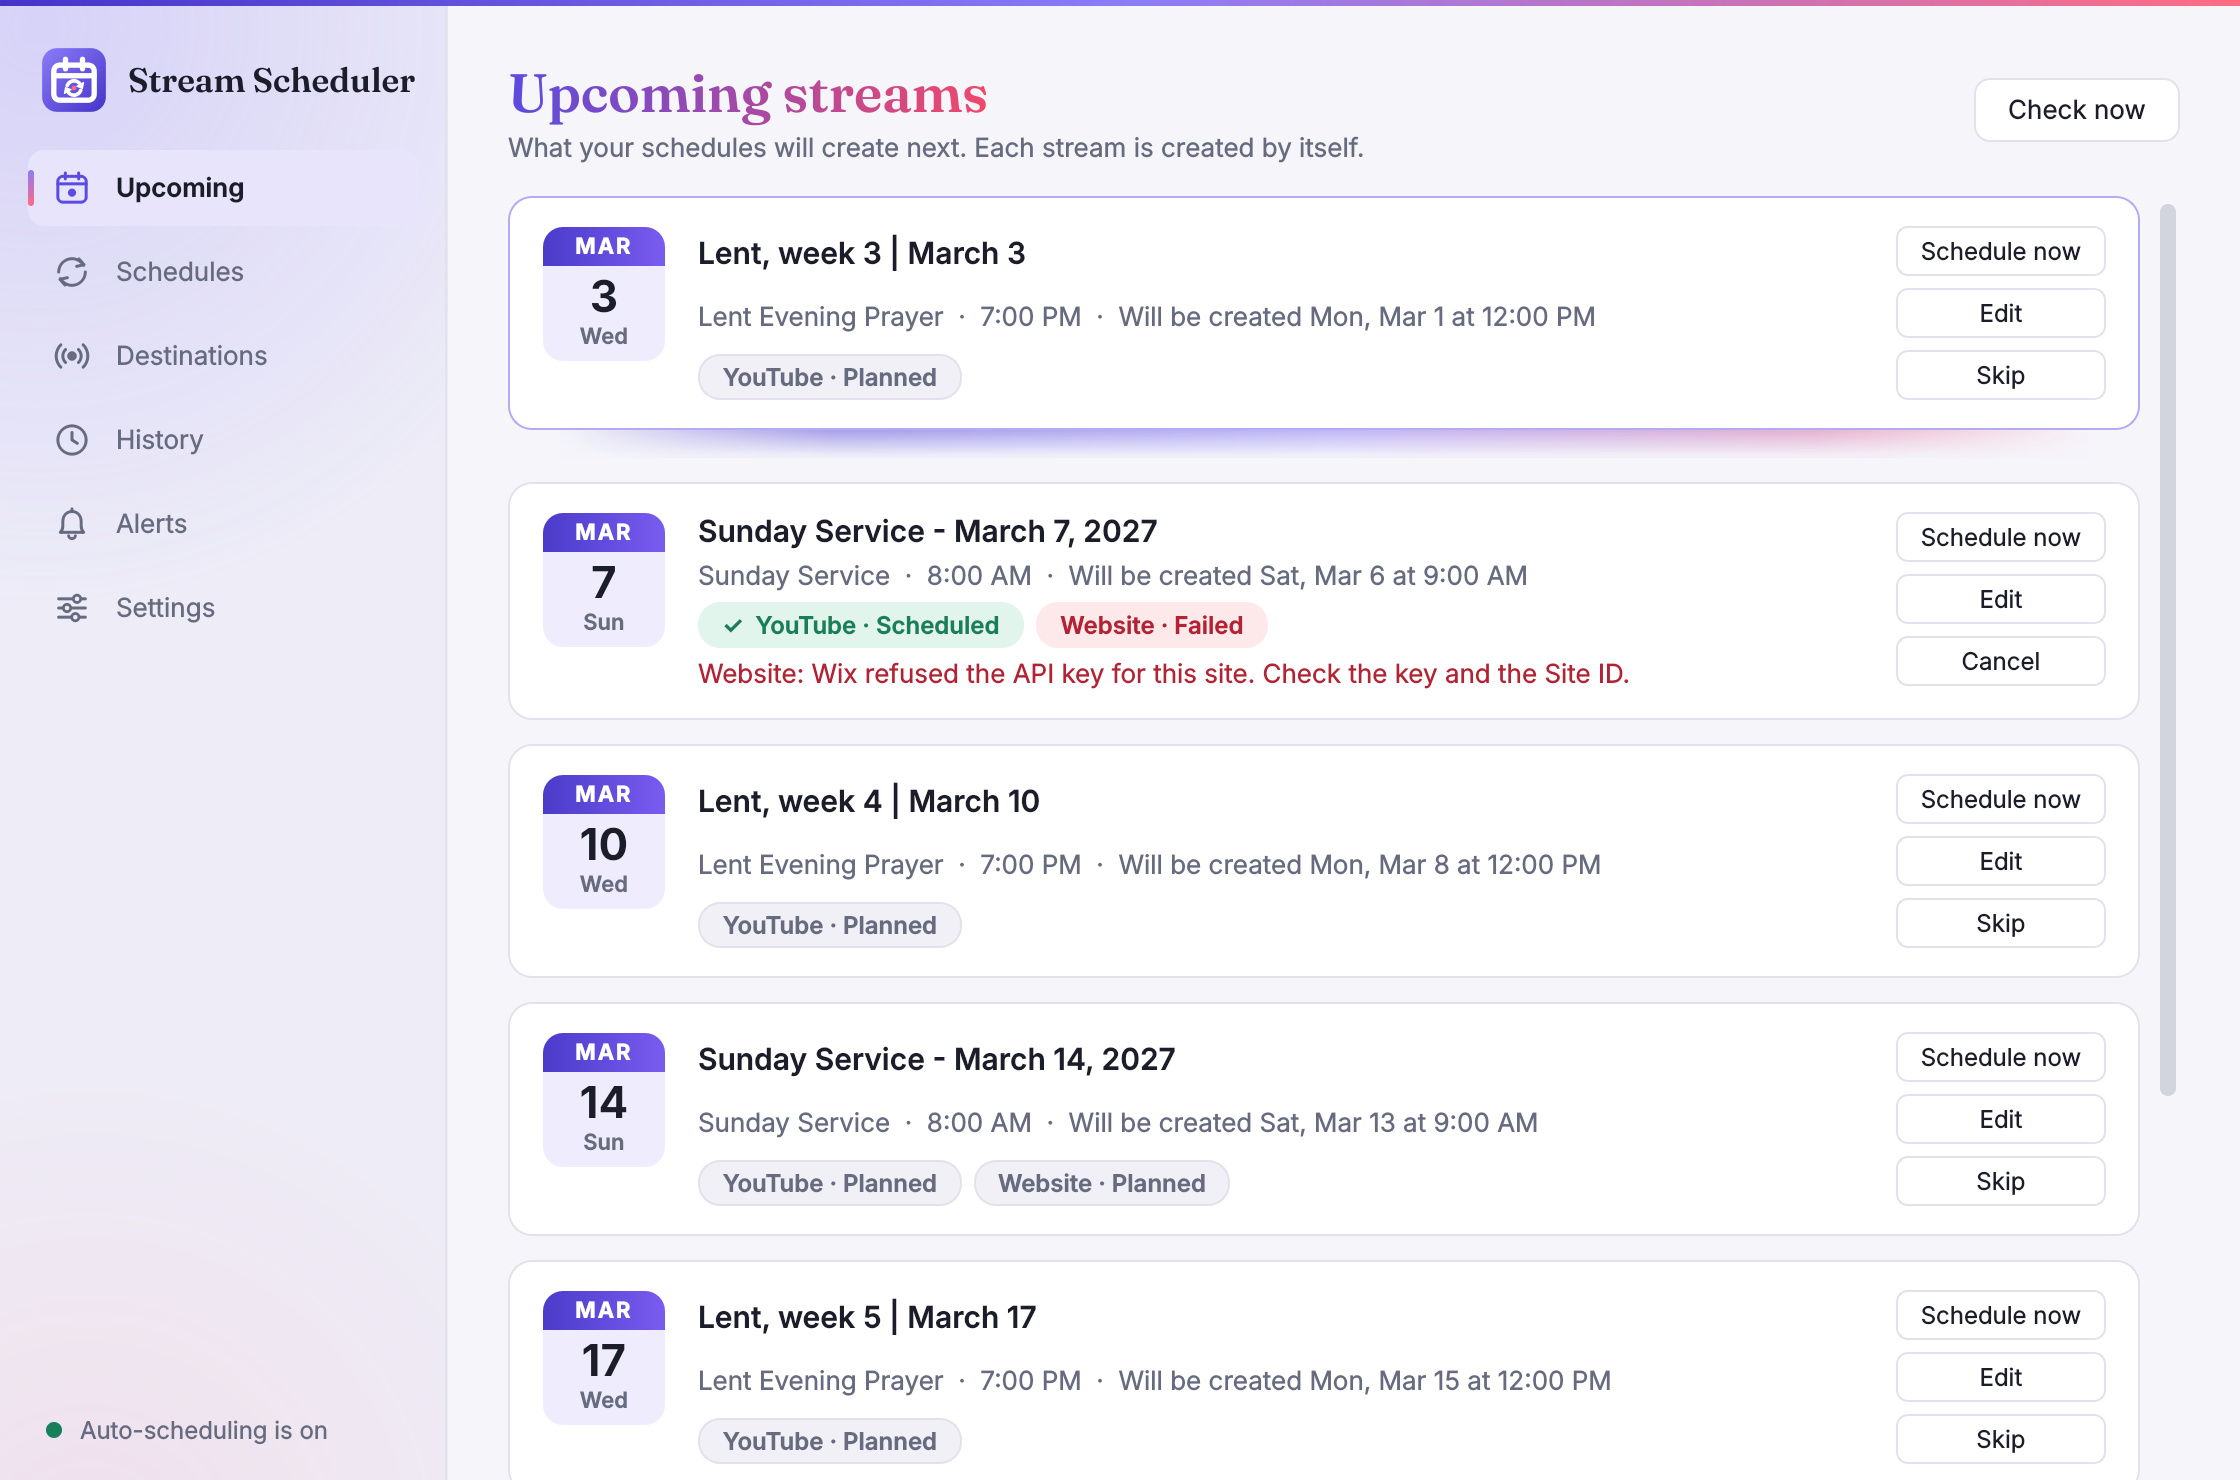
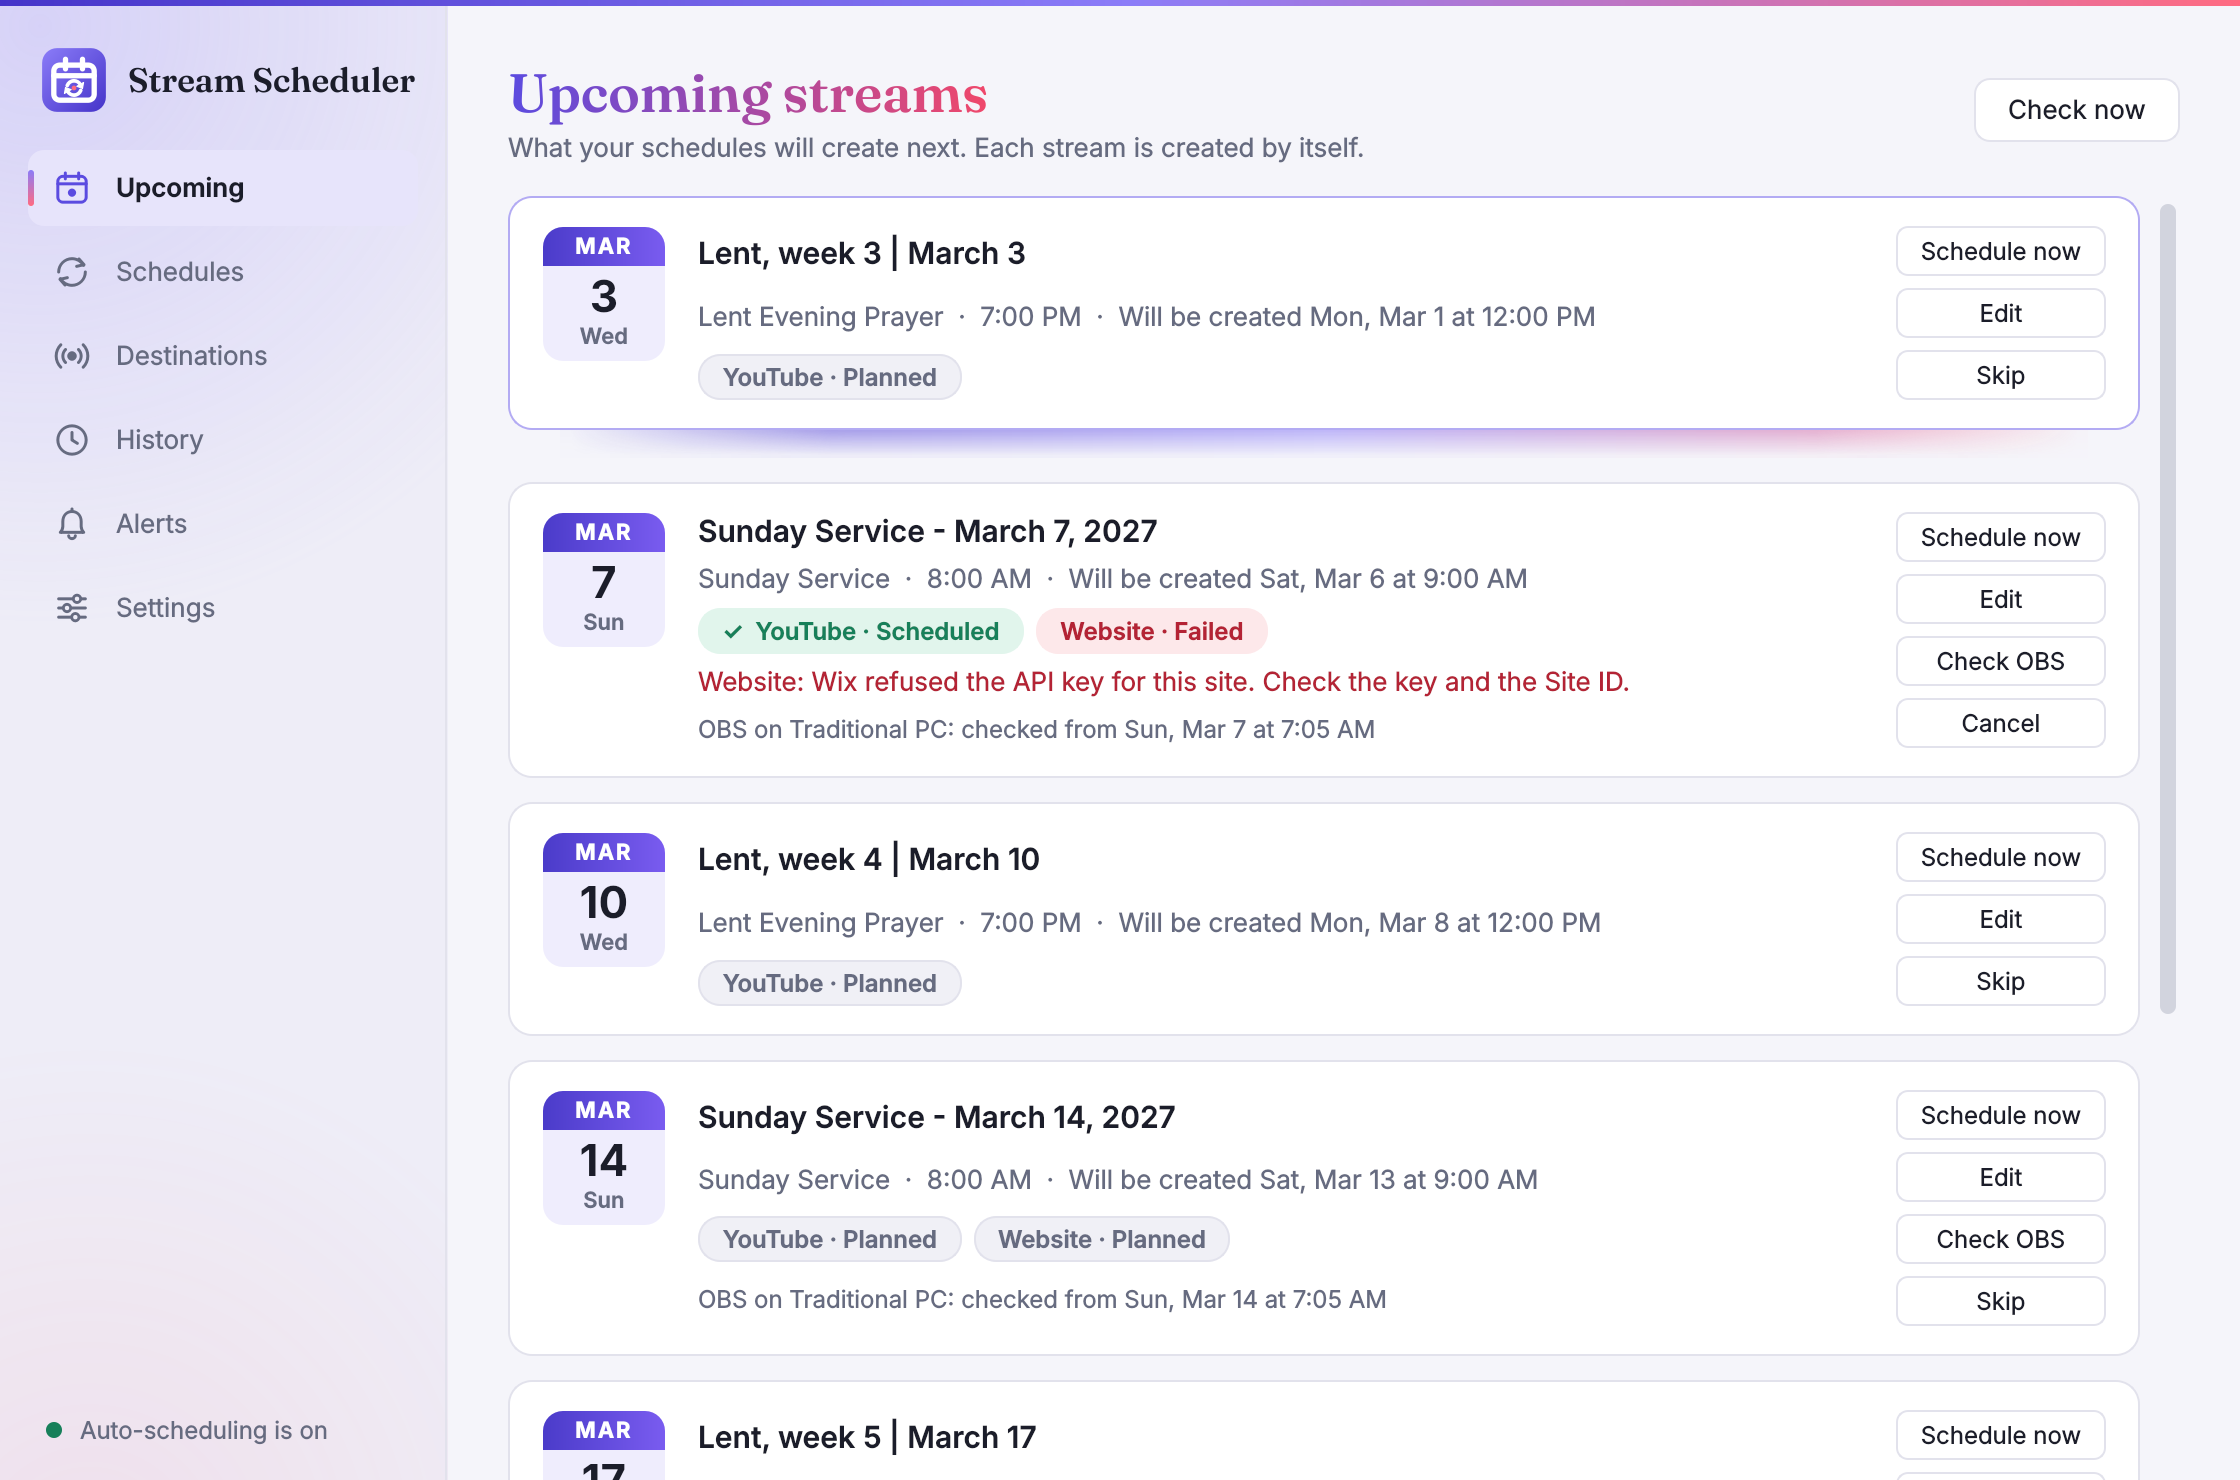
Set up release 0.0.8 alpha: OBS checked before each service, and Unattended PC
The version, the release notes, the README's notice, the installer's and the
workflow's default version are set for 0.0.8. The website gets cards for OBS,
Unattended PC, and backups and new versions (twelve, so the grid comes out
even). The README and website pictures are retaken at their previous sizes;
they now show the OBS entries and the Check OBS button.

Claude-Session: https://claude.ai/code/session_017JJoC3EE7fDgVzvKdCSKaJ

diff --git a/docs/index.html b/docs/index.html
@@ -362,6 +362,12 @@
           with an optional weekly summary.</p>
       </div>
       <div class="feat">
+        <svg viewBox="0 0 24 24" fill="none" stroke="currentColor" stroke-width="2" stroke-linecap="round" stroke-linejoin="round" aria-hidden="true"><rect x="3" y="4.5" width="18" height="12.5" rx="2.5"/><path d="M12 17v3M8 20.5h8"/><circle cx="12" cy="10.75" r="2"/></svg>
+        <h3>OBS ready before the service</h3>
+        <p>Opens OBS on time and checks that it is set to the right YouTube stream key, on this or a second
+          streaming computer. It only looks: going live stays with you.</p>
+      </div>
+      <div class="feat">
         <svg viewBox="0 0 24 24" fill="none" stroke="currentColor" stroke-width="2" stroke-linecap="round" stroke-linejoin="round" aria-hidden="true"><path d="M12 3l7 3v6c0 4-3 7-7 9-4-2-7-5-7-9V6z"/><path d="M9 12l2 2 4-4"/></svg>
         <h3>Check and repair</h3>
         <p>One click sees whether every scheduled stream is still on YouTube and on your website, and puts back what is missing.</p>
@@ -371,6 +377,18 @@
         <h3>Runs quietly</h3>
         <p>Stays in the tray, can start when you log in, and catches up on what it missed while the computer was off.
           Light and dark themes.</p>
+      </div>
+      <div class="feat">
+        <svg viewBox="0 0 24 24" fill="none" stroke="currentColor" stroke-width="2" stroke-linecap="round" stroke-linejoin="round" aria-hidden="true"><rect x="5" y="11" width="14" height="10" rx="2"/><path d="M8 11V8a4 4 0 018 0v3"/></svg>
+        <h3>Unattended PC, if you want it</h3>
+        <p>On Windows, the streaming account can sign in by itself, lock straight away and wake before services.
+          Off unless you turn it on, after reading what it changes.</p>
+      </div>
+      <div class="feat">
+        <svg viewBox="0 0 24 24" fill="none" stroke="currentColor" stroke-width="2" stroke-linecap="round" stroke-linejoin="round" aria-hidden="true"><path d="M12 3v12M7 10l5 5 5-5M5 21h14"/></svg>
+        <h3>Backup and new versions</h3>
+        <p>Save everything but the sign-ins to one file, to keep or move to another computer. The app says when a
+          newer version is out.</p>
       </div>
     </div>
     </div>

diff --git a/demo.py b/demo.py
@@ -73,9 +73,4 @@ def fill(store, vault, now=None):
             "status": "created" if yt else "failed", "remote_id": "abc" if yt else "",
             "url": "https://www.youtube.com/watch?v=abc" if yt else "",
             "note": "" if yt else "Wix refused the API key for this site. Check the key and the Site ID."})
-    engine.obs_record(store, first, {"at": (first["when"] - timedelta(minutes=55)).strftime("%Y-%m-%dT%H:%M:%S"),
-                                     "encoder": "Traditional PC", "ok": False, "notes": [],
-                                     "problems": [{"code": "key", "text": "OBS on Traditional PC is set to the "
-                                                   "stream key “Backup”, but Sunday Service is bound to the stream "
-                                                   "key “Default stream key”."}]}, 0, now)
     vault.set("demo-yt", "client_secret", "x")

diff --git a/paths.py b/paths.py
@@ -11,7 +11,7 @@ import sys
 
 APP_NAME = "Stream Scheduler"
 APP_SLUG = "stream-scheduler"
-VERSION = "0.0.7-alpha"
+VERSION = "0.0.8-alpha"
 AUTHOR = "Aaron Steger"
 COPYRIGHT = f"Copyright (c) 2026 {AUTHOR}"
 PUBLISHER = "Leaven Labs"

diff --git a/.github/RELEASE_NOTES.md b/.github/RELEASE_NOTES.md
@@ -1,9 +1,47 @@
-The eighth alpha of Stream Scheduler: it schedules your YouTube live streams by itself, with the date
+The ninth alpha of Stream Scheduler: it schedules your YouTube live streams by itself, with the date
 of each stream in the title, shows the coming stream on your website, and tells you when one needs you.
 
 > **Alpha.** YouTube scheduling and the Wix website update are confirmed on a real channel and site.
-> Everything under "New in 0.0.5" that talks to another service passed its automated tests but is
-> **not yet confirmed on real accounts**. Try each one once before relying on it.
+> Everything new in 0.0.8, and everything under "New in 0.0.5" that talks to another service, passed
+> its automated tests but is **not yet confirmed with a real OBS, on a real Windows PC or on real
+> accounts**. Try each one once before relying on it.
+
+## New in 0.0.8
+
+**OBS, checked before each service**
+
+- **Connect OBS** (Destinations → Add OBS): OBS Studio 28 or newer, on this computer or another
+  computer on the same network, through OBS's built-in remote control. A guide shows what to switch
+  on in OBS; on this computer, *Fill in* reads the port and password from OBS's own settings.
+- **Choose an OBS in a schedule.** By default 55 and 20 minutes before each stream, the app checks
+  that OBS is open, and that its stream key is the one the YouTube stream is bound to. If not, you are
+  told on your alert channels, again at the second check if nothing changed, and when it is fixed.
+  Keys are named by their YouTube titles and never shown or saved.
+- **Open OBS before a service** on the computer where the app runs, by default 60 minutes before,
+  with the profile and scene collection you choose, if it is not open already.
+- **Check OBS** on a stream, or *Check now*, looks straight away. The Upcoming page shows the result.
+- **The app only looks.** It never starts or stops a stream, switches a scene, closes OBS or
+  changes a setting in it. Going live stays with the people at the computer.
+- OBS's remote control is not encrypted: keep it on your own network and never open port 4455 on
+  your router.
+
+**Unattended PC (Windows, optional, off by default)**
+
+- **Automatic sign-in** for a standard account made for streaming, so the app and OBS get ready
+  with nobody at the computer. Built in: Sysinternals is not needed.
+- **Lock right after it starts**: only the automatic sign-in at start-up is locked, not a person
+  signing in later.
+- **Wake before streams**: from sleep, a few minutes before a stream is created and before OBS is
+  opened or checked.
+- **Read the risks first.** The guide (Settings → Unattended PC, or the unticked choice on the
+  installer's last page) explains them, and goes on only once you tick "I understand the risks": any
+  administrator of the computer can read the stored password, the desktop is unlocked for a few
+  seconds after each start, and anyone who can switch the computer on reaches the locked account
+  without the password. Administrator accounts are refused. Turning it off deletes the password.
+
+**Also**
+
+- Starting the app while it runs shows its window instead of a message.
 
 ## New in 0.0.7
 

diff --git a/README.md b/README.md
@@ -3,8 +3,10 @@
 <p align="center">Schedules your weekly live streams on <b>YouTube</b> by itself, with the date of each<br>
 stream already in the title, shows the coming stream on your website, and tells you when one needs you.</p>
 
-> **v0.0.7 alpha.** YouTube scheduling and the Wix website update are confirmed on a real channel and
-> site. New in 0.0.7 is the look of the app, **not yet seen on a real Windows PC or Mac**. New since 0.0.5 and **not yet confirmed on real accounts**: alerts (email, Discord, Slack,
+> **v0.0.8 alpha.** YouTube scheduling and the Wix website update are confirmed on a real channel and
+> site. New in 0.0.8, **not yet tried with a real OBS or on a real Windows PC**: OBS checked (and
+> opened) before each service, and the optional Unattended PC settings on Windows. The look of 0.0.7
+> is not yet seen on a real Windows PC or Mac. New since 0.0.5 and **not yet confirmed on real accounts**: alerts (email, Discord, Slack,
 > Pushover), thumbnails, playlists and the other YouTube settings, cancelling a stream, WordPress and
 > webhook destinations, and the notice of new versions. Please report what you find.
 
